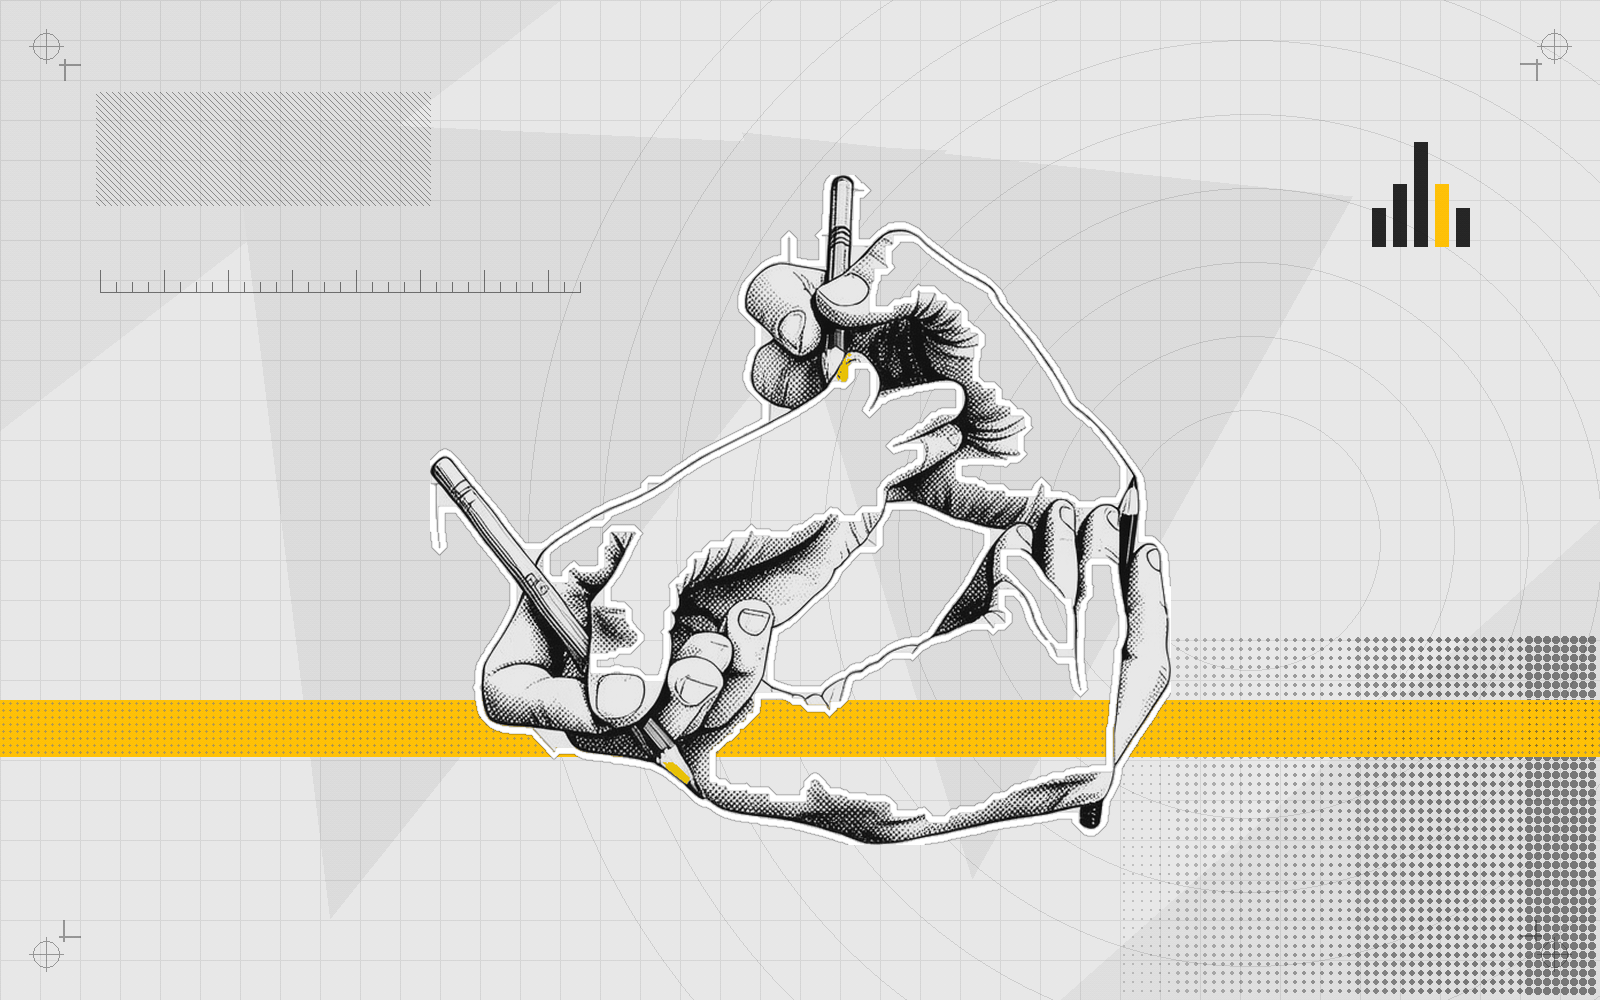
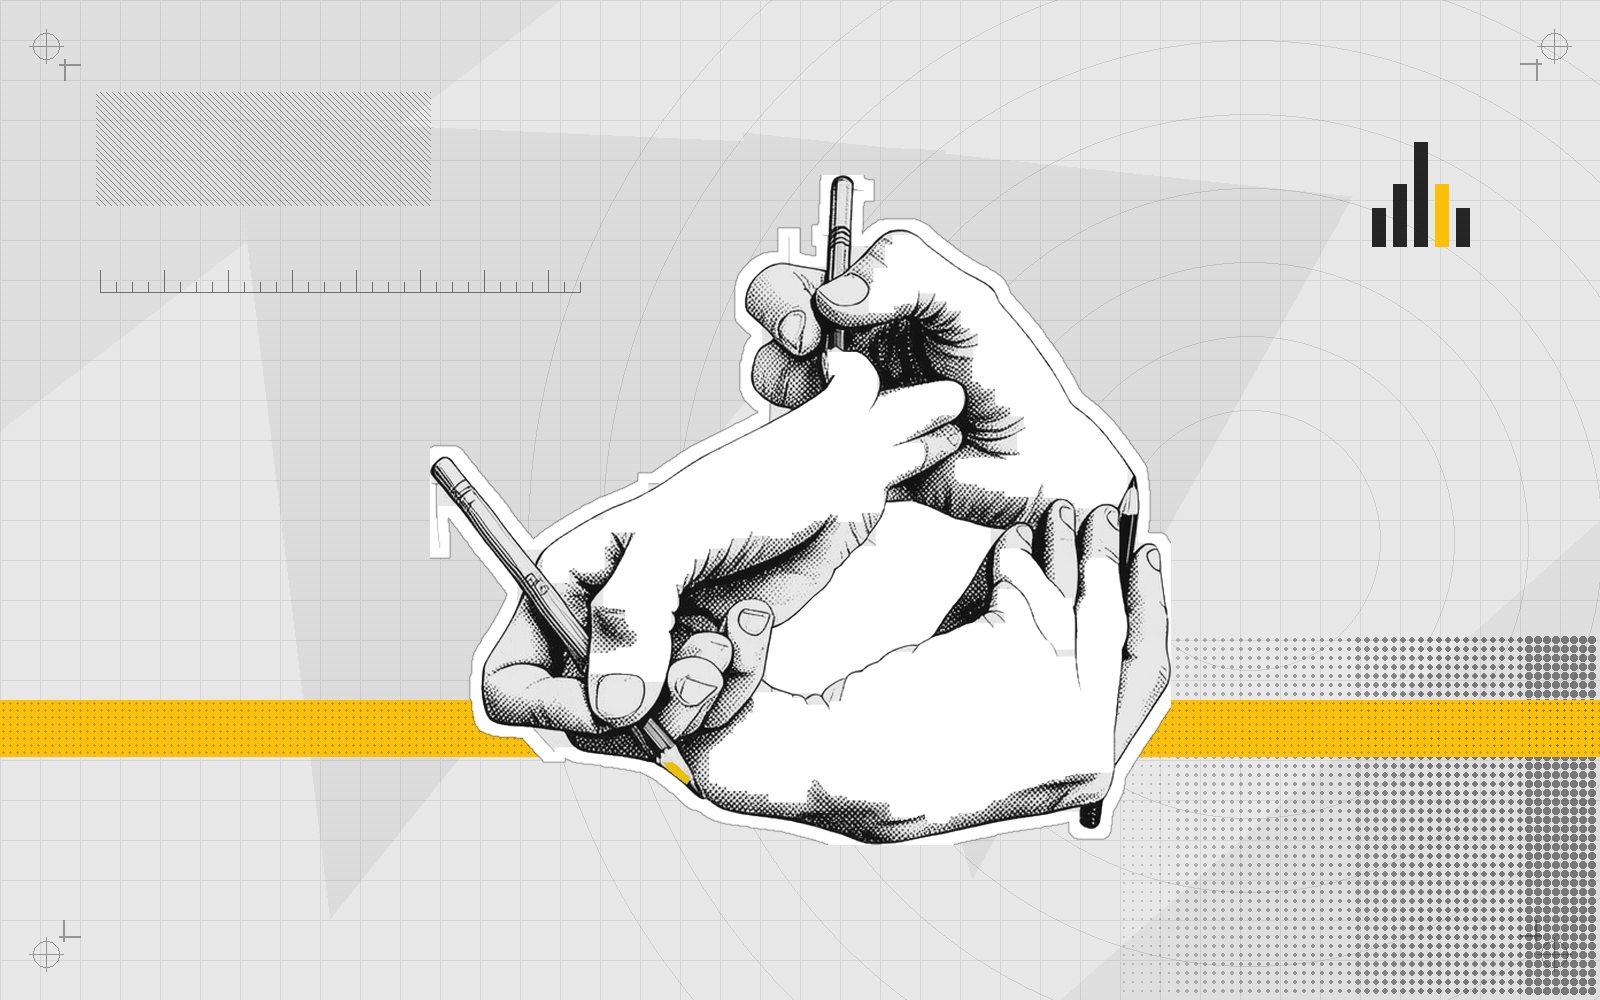
docs(recursive-skill-improvement): the hero hands sit on a white sticker base
The white edge was a keyline glued to the ink (dilate(mask,7) & ~mask), so it
read as an outline drawn inside the drawing. Dilate the whole silhouette by
10px, fill that mask completely with pure #FFFFFF and print the ink on top, so
the drawing lies on a white ground whose outer edge is the outline and the white
also shows in the openings between the hands. The base is opaque, so the plate
grid and the accent band no longer leak through the drawing's light areas.

Also cut the spurious thumb-like stub (with its yellow nail) out of the LEFT
hand's webbing in the source plate before the silhouette is extracted: the cut
is clipped to the paper canyon between the thumb and the finger beside it, kept
2px clear of both contours, and filled with paper. 146 ink px and 172 warm px
removed, 0 changed px outside the cut, and the silhouette changes only there.

Alt text updated to the new form.

diff --git a/docs/fundamentals/node-tools/recursive-skill-improvement/index.md b/docs/fundamentals/node-tools/recursive-skill-improvement/index.md
@@ -22,7 +22,7 @@ It exists because Lion is a living product: components gain APIs, docs gain page
 last quarter quietly stops matching the library. Improvement here means the skill is regenerated from
 its source docs and re-measured against the library, not patched by hand and hoped over.
 
-![three hands drawing one another in a closed loop — the Escher tribute — as one free-standing silhouette: a single white kiss-cut keyline around the whole group, no card and no frame, standing on a technical sheet of fine grid, pale angular fields, a hatched block, a halftone field, concentric rings, corner registration marks and a ruler scale](./assets/recursive-skill-improvement-hero.png 'The self-drawing hands as a free-standing die-cut: the pencil drawing reduced to two even ink tones and lifted as one silhouette under a single white kiss-cut edge, over the printed plate the other covers share')
+![three hands drawing one another in a closed loop — the Escher tribute — printed on one white sticker base: the drawing lies on solid white, the outer edge of that white shape is the outline, the white also shows as ground in the openings between the hands, no card and no frame, standing on a technical sheet of fine grid, pale angular fields, a hatched block, a halftone field, concentric rings, corner registration marks, a ruler scale, a dotted accent band and a five-bar ledger device](./assets/recursive-skill-improvement-hero.png 'The self-drawing hands as a free-standing die-cut on a white ground: the pencil drawing reduced to two even ink tones, its whole silhouette under a pure white sticker base whose outer edge is the outline, over the printed plate the other covers share')
 
 ## The subject is any skill generated from docs
 
